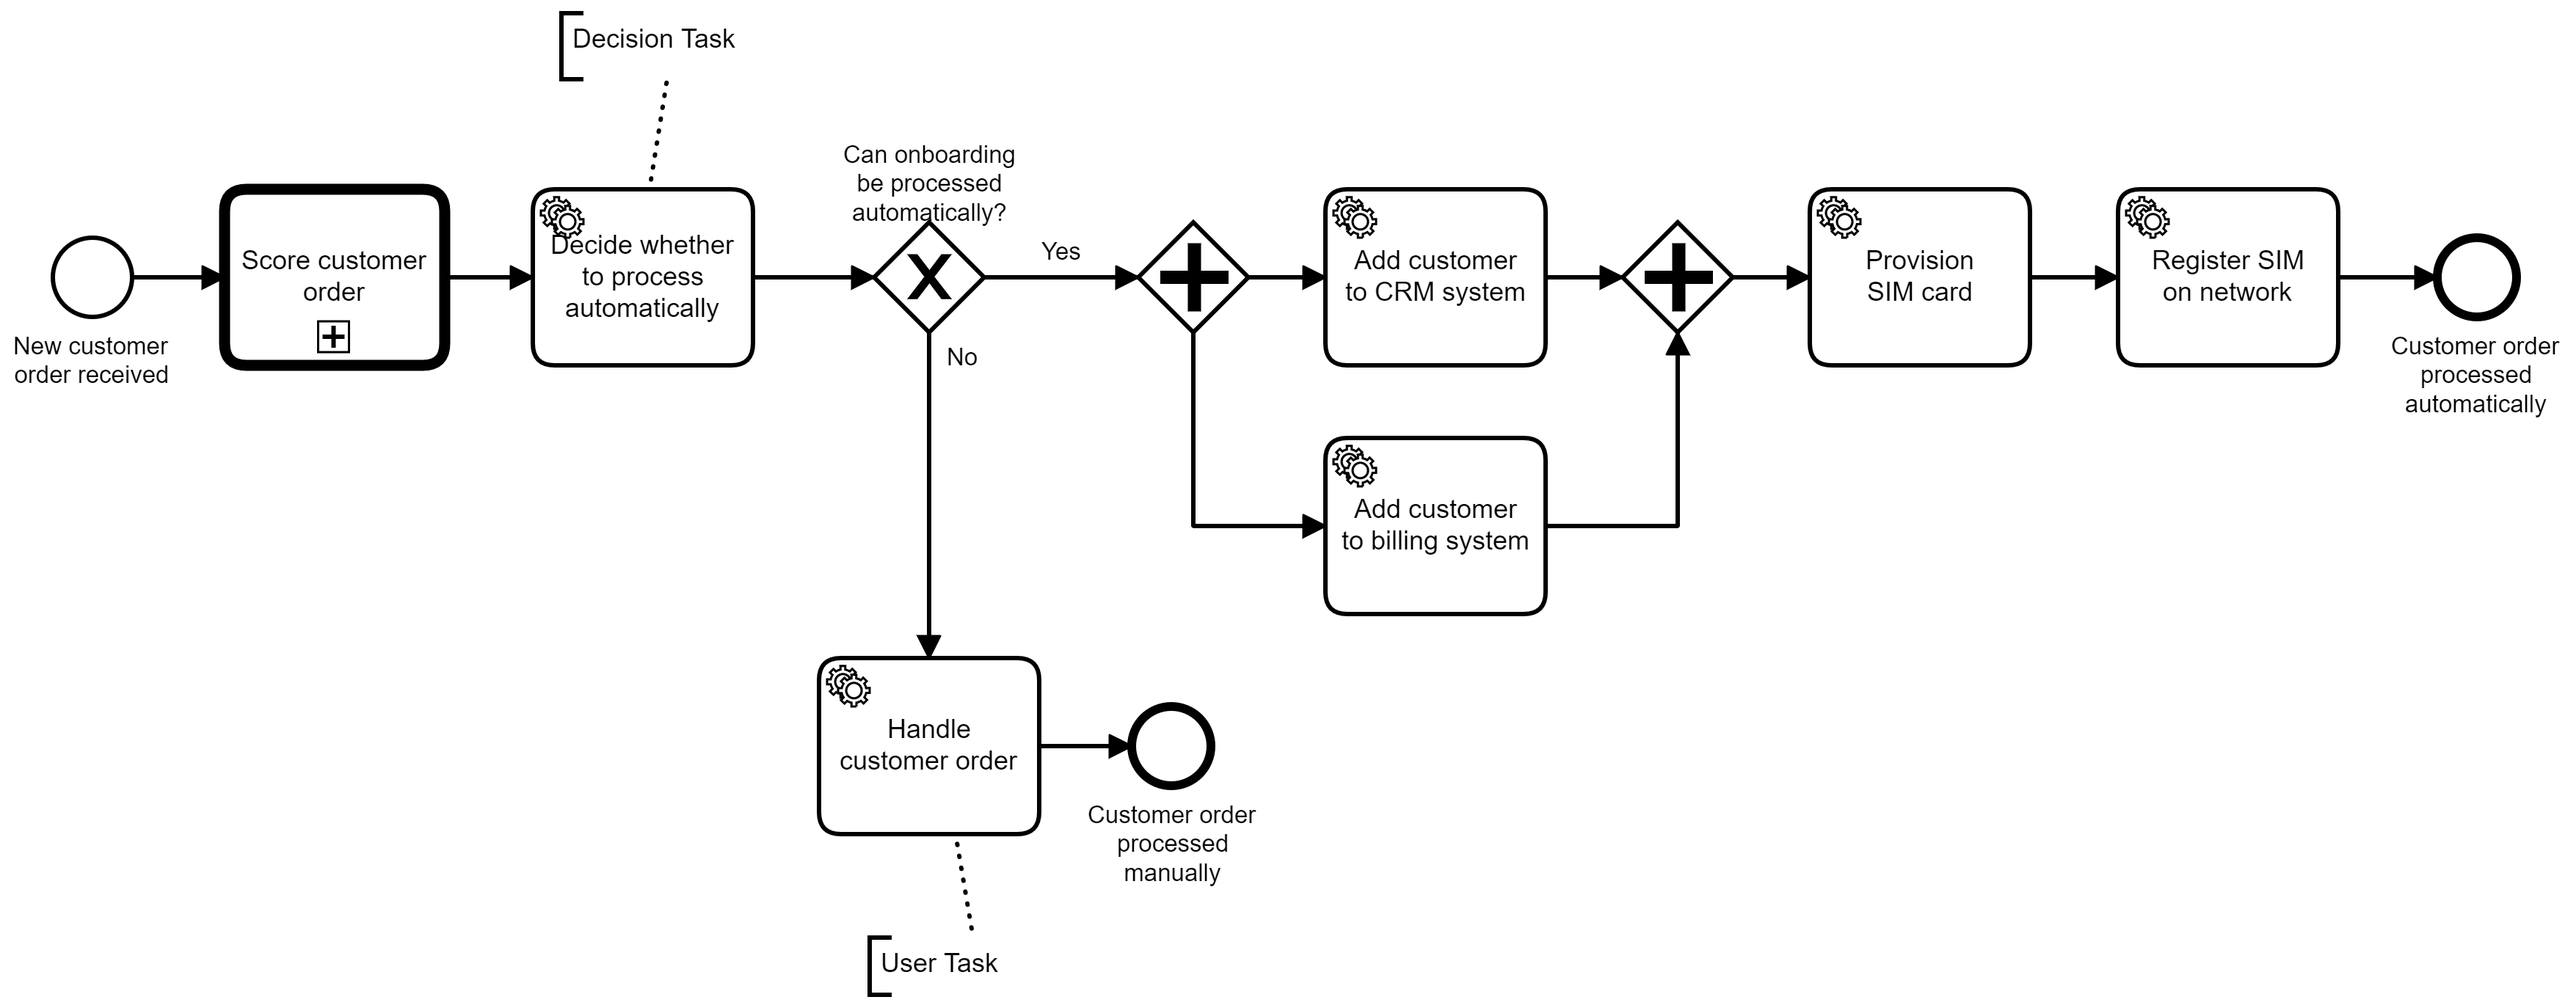
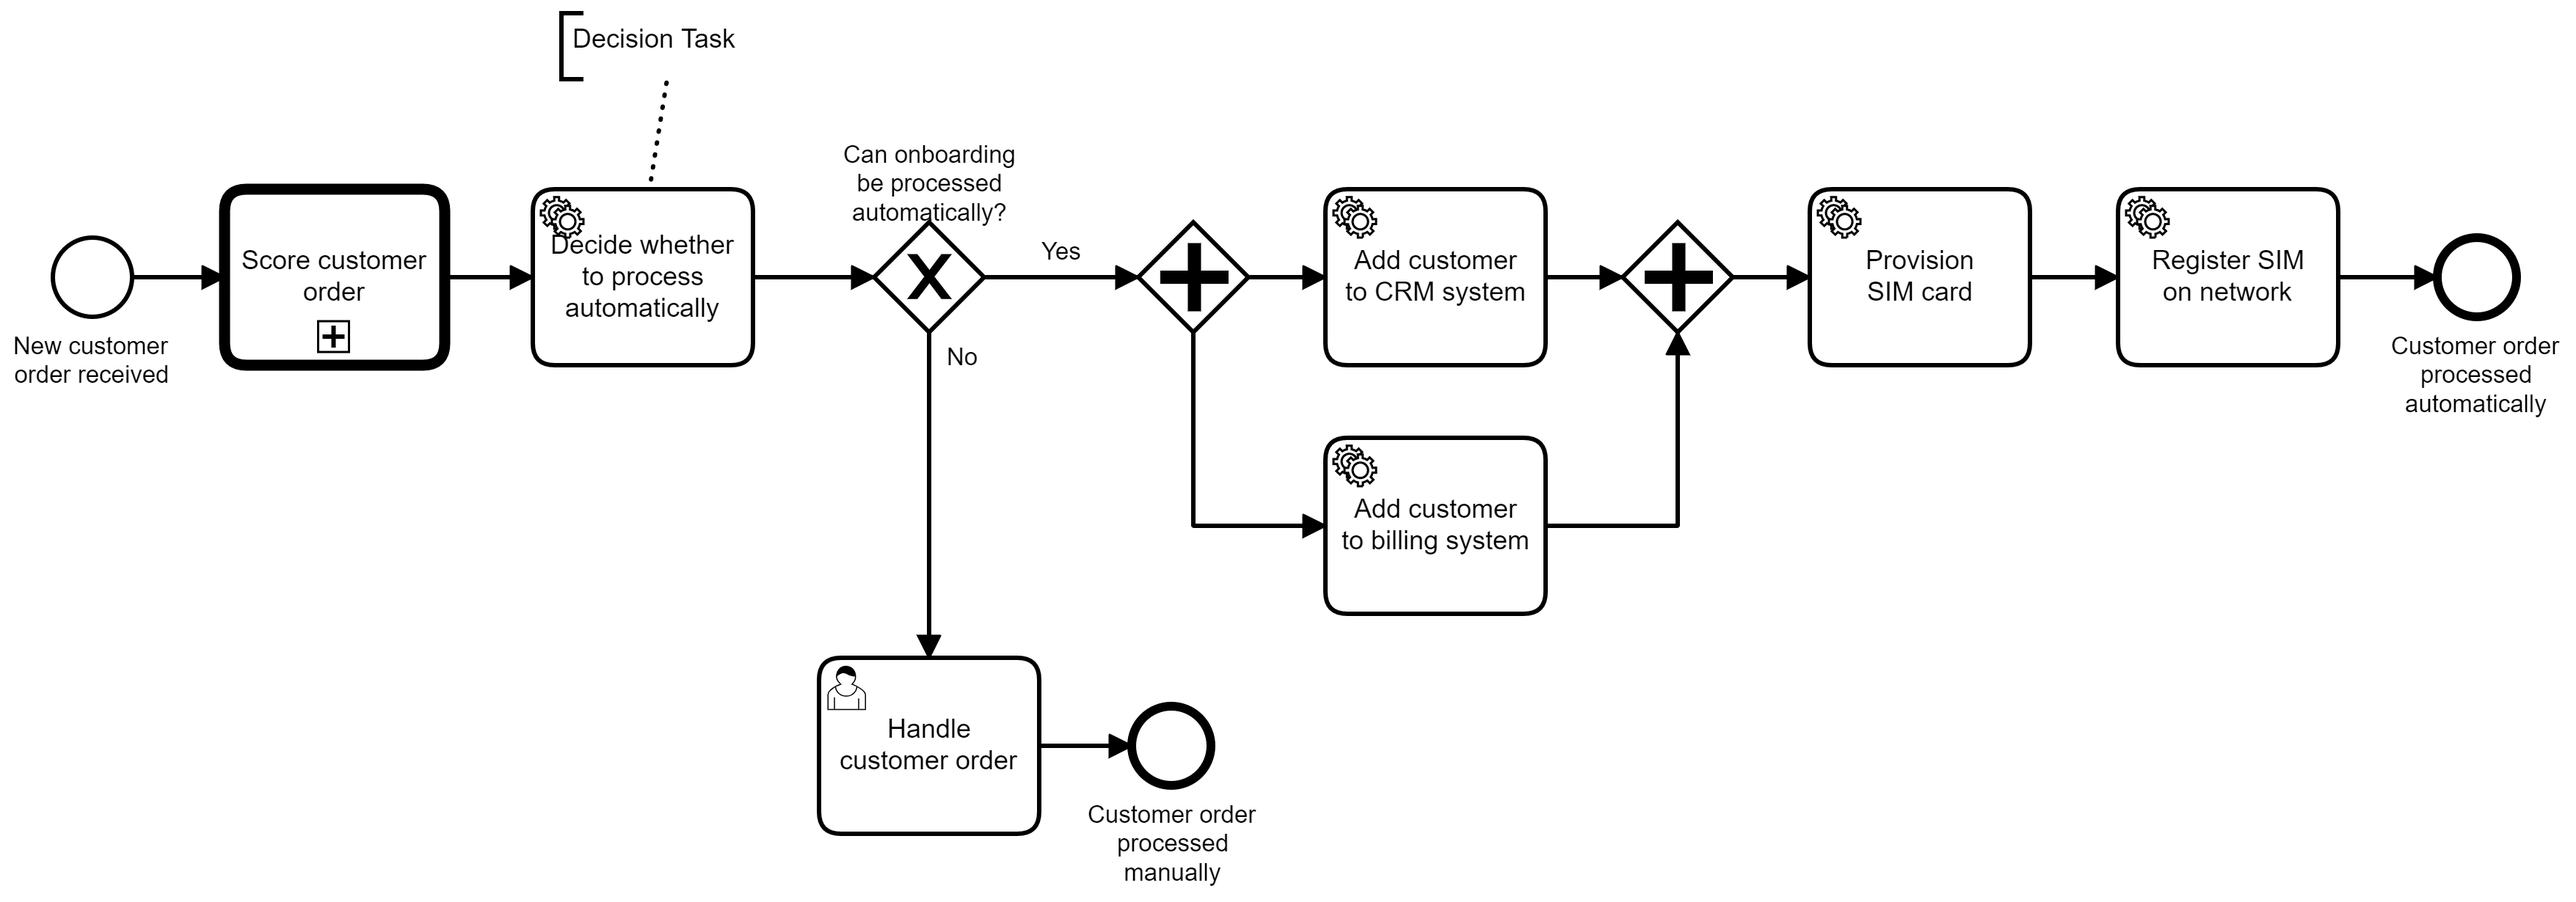
Improved readme

diff --git a/README.md b/README.md
@@ -10,47 +10,59 @@ This following stack is used:
 
 # Under Construction Warning
 
-This example is still under construction (as we are still approaching Camunda Cloud GA), so it might not work as expected out-of-the-box for you just yet.
+This example contains some workarounds for for features missing in Camunda Cloud (they are on the near term roadmap):
 
-It also contains some workarounds for for features missing in Camunda Cloud (but that are on the near term roadmap):
+* A custom form for the user task to approve customer orders is not yet designed, using the generic form in the tasklist
+* The project implements a bespoke DMN Worker because the DMN integration is not yet out-of-the-box
+* Automated unit tests are not yet implemented
 
-* User Task & Form for the user to approve customer orders are missing, simulated by service task simply completing user tasks
-* Own DMN Worker because DMN Integration doesn#t yet work out of the box
+# Intro
 
-# Into
-
-The simple process is meant to get started with process automation, workflow engines and BPMN:
+This simple onboarding process is meant to get started with process automation, workflow engines and BPMN:
 
 ![Customer Onboarding](docs/customer-onboarding-simple.png)
 
 The process model contains three tasks:
 
-* A service task that executes Java Code to score customers
+* A service task that executes Java Code to score customers (using the stateless Camunda DMN engine)
 * A user task so that humans can approve customer orders (or not)
 * A service task that executes glue code to call the REST API of a CRM system
 
 The process solution is a Maven project and contains:
 
 * The onboarding process model as BPMN
-* Source code to provide the REST API for clients (using Spring Boot)
+* Source code to provide a REST endpoint for clients
 * Java code to do the customer scoring
 * Glue code to implement the REST call to the CRM system
 * Fake for CRM system providing a REST API that can be called (to allow running this example self-contained)
 
 
-# How to run
+# How To Run
 
-* Create a cluster and copy API credentials (see https://github.com/berndruecker/ticket-booking-camunda-cloud#create-camunda-cloud-cluster, TODO: IMPROVE)
+## Create Camunda Cloud Cluster
 
-* Run Spring Boot Java application, it will deploy the process model during startup
+* Login to https://camunda.io/
+* Create a new Zeebe cluster
+* Create a new set of client credentials.
+* Copy the client credentials into `src/main/resources/application.properties`
+
+
+## Run Spring Boot Java Application
+
+The application will deploy the process model during startup
 
 `mvn package exec:java`
 
-* Test by requesting a new customer onboarding 
+
+## Play
+
+You can easily use the application by requesting a new customer onboarding posting a PUT REST request to 
 
 `curl -X PUT http://localhost:8080/customer`
 
-* Check in Operate
+You can now see the process instance in Camunda Operate - linked via the Cloud Console.
+
+You can work on the user task using Camunda Tasklist, also linked via the Cloud Console.
 
 
 
